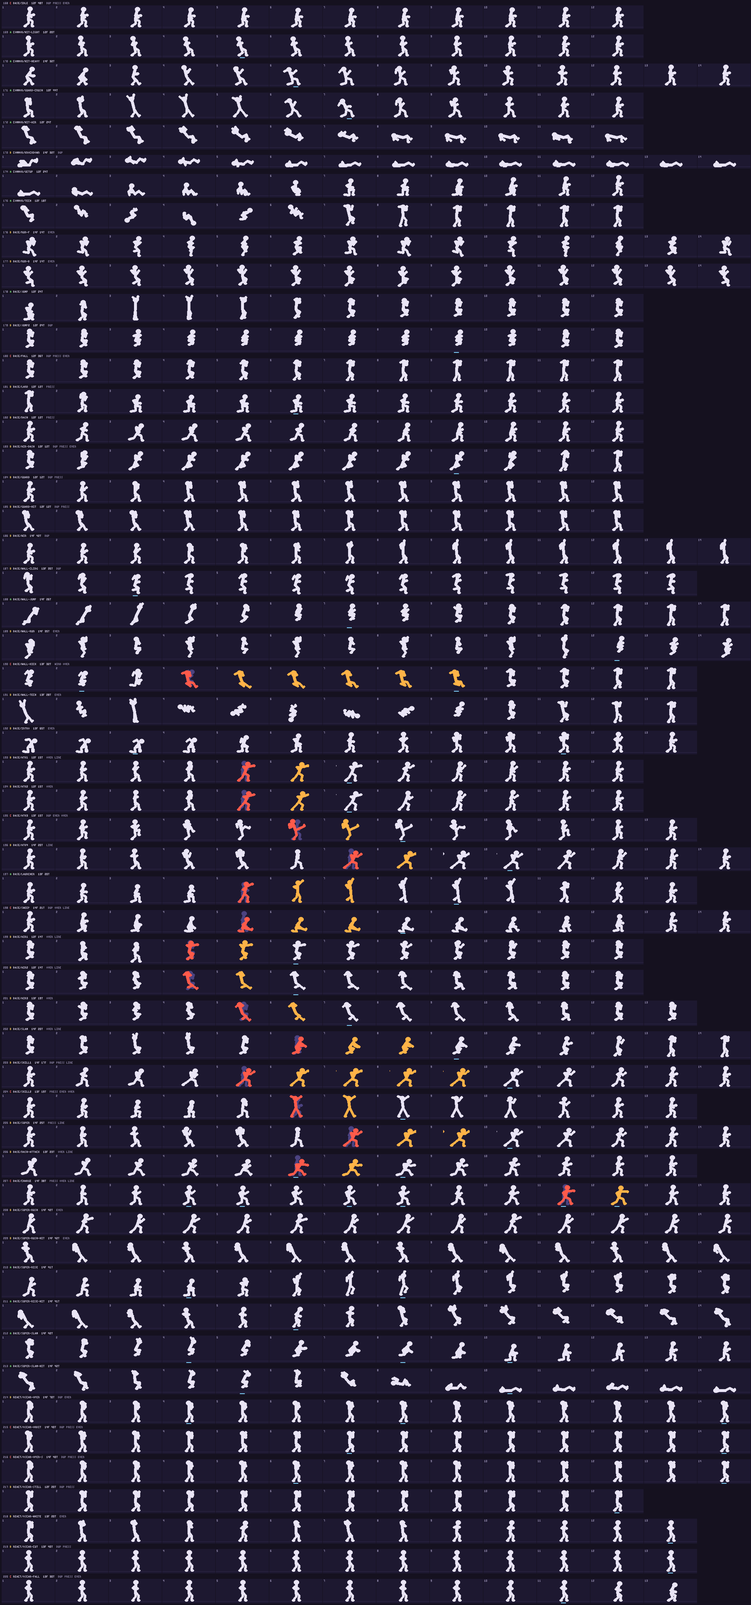
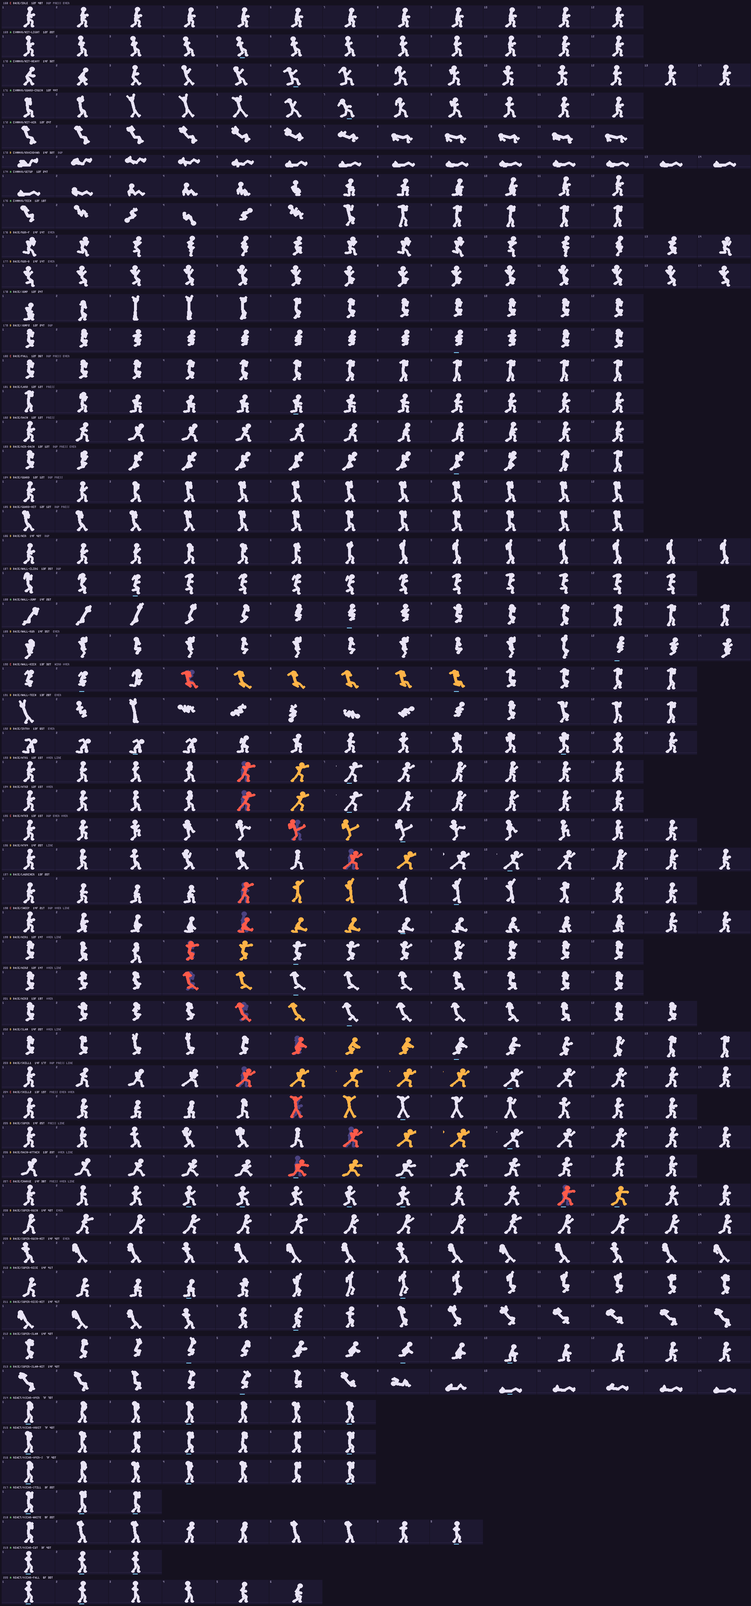
점검표·실루엣 띠 다시 뽑기 (오스카 2차 리워크 뒤)
오스카 40개: A 3 → 32, B 32 → 8 (남은 B는 모두 보호 목록), C 5 → 0. 월령수류 상대 반응 7개: 모두 A.

Claude-Session: https://claude.ai/code/session_01Q6VeBSuE7JSjci2iMumFxL

diff --git a/docs/motions/점검표.md b/docs/motions/점검표.md
@@ -3,8 +3,8 @@
 자동 생성: `npm run motioncheck` (`tools/motioncheck.mjs`). 손으로 고치지 않는다. 사람이 바꾼 등급은 도구의 `JUDGED` 표에 이유와 함께 적고, 등급 칸에 "자동 → 판단"으로 나온다.
 실루엣 띠: `previews/motions/silhouette-<캐릭터>.png` (아래 '실루엣 띠 읽는 법').
 
-동작 220개 — A 112 · B 87 · C 21. 보호 목록 26개는 등급만 적고 고치지 않는다(1장).
-신호별 개수: 복사로 길이 채움 48 · 감기 없음 7 · 지나치기 없음 34 · 직선 궤적 18 · 일정한 간격 45 · 몸통 고정 13 · 2차 동작 없음 94 · 실루엣 겹침 3 · 12~14에 눌림 45.
+동작 220개 — A 148 · B 59 · C 13. 보호 목록 26개는 등급만 적고 고치지 않는다(1장).
+신호별 개수: 복사로 길이 채움 20 · 감기 없음 5 · 지나치기 없음 34 · 직선 궤적 16 · 일정한 간격 26 · 몸통 고정 13 · 2차 동작 없음 91 · 실루엣 겹침 0 · 12~14에 눌림 20.
 
 ## 읽는 법
 
@@ -41,8 +41,8 @@
 | 라이덴 | 44 | 37 | 2 | 5 | 7 |
 | 백은우 | 43 | 27 | 15 | 1 | 3 |
 | 에드워드 | 40 | 32 | 8 | 0 | 7 |
-| 오스카 | 40 | 3 | 32 | 5 | 9 |
-| 공통 맞는 동작 · 기본 스틱맨 · 필살기 상대 반응 | 53 | 13 | 30 | 10 | 0 |
+| 오스카 | 40 | 32 | 8 | 0 | 9 |
+| 공통 맞는 동작 · 기본 스틱맨 · 필살기 상대 반응 | 53 | 20 | 26 | 7 | 0 |
 
 
 ## 라이덴 (44개 — A 37 · B 2 · C 5)
@@ -187,52 +187,52 @@
 | 126 | `edward/super_drained` 에드워드 필살기 반응 2 흡수당함<br>연출 | 14 / 60 | 해당 없음 — 공격 아님 | **2차 동작 없음**(머리카락 고정, 옷자락 고정, 무기 고정) | **B** · 보호 (1점) |
 | 127 | `edward/super_dropped` 에드워드 필살기 반응 3 쓰러짐<br>연출 | 14 / 32 | 해당 없음 — 공격 아님 | **복사로 길이 채움**(10=11 11=12)<br>**2차 동작 없음**(머리카락 지연 0, 옷자락 지연 0, 무기 고정) | **B** · 보호 (2점) |
 
-## 오스카 (40개 — A 3 · B 32 · C 5)
+## 오스카 (40개 — A 32 · B 8 · C 0)
 
 | # | 동작 | 프레임 수 / 총 틱 | 일곱 요소가 든 프레임 번호 | 문제 신호 | 등급 |
 | --- | --- | --- | --- | --- | --- |
-| 128 | `oscar/idle` 오스카 대기<br>반복 | 14 / 72 | 해당 없음 — 공격 아님 | **복사로 길이 채움**(6=7 12=13 13=14)<br>**일정한 간격**(뒷무릎 빠르기 최대/가운데 1.5배)<br>**2차 동작 없음**(머리카락 고정, 옷자락 고정) _장식 고정: 캐릭터 공통_ | **B** (2점) |
+| 128 | `oscar/idle` 오스카 대기<br>반복 | 8 / 72 | 해당 없음 — 공격 아님 | **2차 동작 없음**(머리카락 고정, 옷자락 고정) _장식 고정: 캐릭터 공통_ | **A** (0점) |
 | 129 | `oscar/walk_f` 오스카 앞 걷기<br>반복 | 14 / 42 | 해당 없음 — 공격 아님 | **일정한 간격**(앞발 빠르기 최대/가운데 1.8배)<br>**2차 동작 없음**(머리카락 고정, 옷자락 고정) _장식 고정: 캐릭터 공통_ | **B** · 보호 (1점) |
 | 130 | `oscar/walk_b` 오스카 뒤 걷기<br>반복 | 14 / 42 | 해당 없음 — 공격 아님 | **일정한 간격**(앞발 빠르기 최대/가운데 1.5배)<br>**2차 동작 없음**(머리카락 고정, 옷자락 고정) _장식 고정: 캐릭터 공통_ | **B** · 보호 (1점) |
 | 131 | `oscar/jump` 오스카 점프<br>이동·기본 | 12 / 24 | 해당 없음 — 공격 아님 | **2차 동작 없음**(머리카락 고정, 옷자락 고정) _장식 고정: 캐릭터 공통_ | **A** (0점) |
 | 132 | `oscar/jump2` 오스카 2단 점프<br>이동·기본 | 12 / 24 | 해당 없음 — 공격 아님 | **2차 동작 없음**(머리카락 고정, 옷자락 고정) _장식 고정: 캐릭터 공통_ | **A** · 보호 (0점) |
-| 133 | `oscar/fall` 오스카 낙하<br>이동·기본 | 12 / 36 | 해당 없음 — 공격 아님 | **복사로 길이 채움**(5=6 6=7 8=9)<br>**일정한 간격**(앞발 빠르기 최대/가운데 2배)<br>**2차 동작 없음**(머리카락 고정, 옷자락 고정) _장식 고정: 캐릭터 공통_ | **B** (2점) |
-| 134 | `oscar/land` 오스카 착지<br>이동·기본 | 12 / 12 | 해당 없음 — 공격 아님 | **복사로 길이 채움**(7=8)<br>**12~14에 눌림**(12프레임이 모두 1틱)<br>**일정한 간격**(머리 빠르기 최대/가운데 1.4배)<br>**2차 동작 없음**(머리카락 고정, 옷자락 고정) _장식 고정: 캐릭터 공통_ | **B** (3점) |
+| 133 | `oscar/fall` 오스카 낙하<br>이동·기본 | 6 / 36 | 해당 없음 — 공격 아님 | **2차 동작 없음**(머리카락 고정, 옷자락 고정) _장식 고정: 캐릭터 공통_ | **A** (0점) |
+| 134 | `oscar/land` 오스카 착지<br>이동·기본 | 5 / 12 | 해당 없음 — 공격 아님 | **2차 동작 없음**(머리카락 고정, 옷자락 고정) _장식 고정: 캐릭터 공통_ | **A** (0점) |
 | 135 | `oscar/dash` 오스카 대시 (월영)<br>이동·기본 | 12 / 12 | 해당 없음 — 공격 아님 | **복사로 길이 채움**(3=4)<br>**12~14에 눌림**(12프레임이 모두 1틱)<br>**2차 동작 없음**(머리카락 고정, 옷자락 고정) _장식 고정: 캐릭터 공통_ | **B** · 보호 (2점) |
-| 136 | `oscar/air_dash` 오스카 공중 대시<br>이동·기본 | 12 / 12 | 해당 없음 — 공격 아님 | **복사로 길이 채움**(3=4 4=5 6=7)<br>**12~14에 눌림**(12프레임이 모두 1틱)<br>**2차 동작 없음**(머리카락 고정, 옷자락 지연 0) _장식 고정: 캐릭터 공통_ | **B** (2점) |
-| 137 | `oscar/guard` 오스카 방어<br>이동·기본 | 12 / 12 | 해당 없음 — 공격 아님 | **복사로 길이 채움**(5=6 6=7 7=8 8=9 9=10 10=11)<br>**12~14에 눌림**(키 3개를 12프레임으로 늘림, 12프레임이 모두 1틱)<br>**일정한 간격**(뒷손 빠르기 최대/가운데 1.3배)<br>**2차 동작 없음**(머리카락 고정, 옷자락 고정) _장식 고정: 캐릭터 공통_ | **C** (4점) |
-| 138 | `oscar/guard_hit` 오스카 방어 막힘<br>이동·기본 | 12 / 12 | 해당 없음 — 공격 아님 | **복사로 길이 채움**(8=9 9=10 10=11)<br>**12~14에 눌림**(12프레임이 모두 1틱) | **B** (2점) |
-| 139 | `oscar/intro` 오스카 등장<br>연출 | 14 / 112 | 해당 없음 — 공격 아님 | **일정한 간격**(앞손 빠르기 최대/가운데 1.6배)<br>**2차 동작 없음**(머리카락 고정, 옷자락 고정) _장식 고정: 캐릭터 공통_ | **B** (1점) |
+| 136 | `oscar/air_dash` 오스카 공중 대시<br>이동·기본 | 6 / 12 | 해당 없음 — 공격 아님 | **2차 동작 없음**(머리카락 고정, 옷자락 지연 0) _장식 고정: 캐릭터 공통_ | **A** (0점) |
+| 137 | `oscar/guard` 오스카 방어<br>이동·기본 | 5 / 12 | 해당 없음 — 공격 아님 | **2차 동작 없음**(머리카락 고정, 옷자락 고정) _장식 고정: 캐릭터 공통_ | **A** (0점) |
+| 138 | `oscar/guard_hit` 오스카 방어 막힘<br>이동·기본 | 5 / 12 | 해당 없음 — 공격 아님 | 없음 | **A** (0점) |
+| 139 | `oscar/intro` 오스카 등장<br>연출 | 14 / 112 | 해당 없음 — 공격 아님 | **2차 동작 없음**(머리카락 고정, 옷자락 고정) _장식 고정: 캐릭터 공통_ | **A** (0점) |
 | 140 | `oscar/win` 오스카 승리<br>연출 | 14 / 74 | 해당 없음 — 공격 아님 | **2차 동작 없음**(머리카락 고정, 옷자락 지연 0) _장식 고정: 캐릭터 공통_ | **A** (0점) |
 | 141 | `oscar/wall_cling` 오스카 벽 붙기<br>이동·기본 | 13 / 35 | 해당 없음 — 공격 아님 | **복사로 길이 채움**(4=5 6=7)<br>**2차 동작 없음**(머리카락 고정, 옷자락 고정) _장식 고정: 캐릭터 공통_ | **B** · 보호 (1점) |
 | 142 | `oscar/wall_jump` 오스카 벽 점프<br>이동·기본 | 14 / 26 | 해당 없음 — 공격 아님 | **복사로 길이 채움**(12=13)<br>**2차 동작 없음**(머리카락 고정, 옷자락 고정) _장식 고정: 캐릭터 공통_ | **B** · 보호 (1점) |
 | 143 | `oscar/wall_run` 오스카 벽 달리기<br>이동·기본 | 14 / 35 | 해당 없음 — 공격 아님 | **일정한 간격**(뒷무릎 빠르기 최대/가운데 1.9배)<br>**2차 동작 없음**(머리카락 고정, 옷자락 고정) _장식 고정: 캐릭터 공통_ | **B** · 보호 (1점) |
 | 144 | `oscar/wall_kick` 오스카 벽 박차기 공격<br>일반 평타 · oscar.wallKick · 끝: 칼자루 손 | 13 / 32 | ①1→4(4→10px) ②4(+4), 높이 5 ③2<3 ④3→4 ⑤4(87° 꺾임, 겹침 30%) ⑥– ⑦10~13 (끝이 첫 자세와 9px) | **2차 동작 없음**(머리카락 고정, 옷자락 지연 0) _장식 고정: 캐릭터 공통_<br>**감기 없음**(1~3번에 뒤로 0px (버틴 감기 0px), 직전 정지도 없음)<br>**지나치기 없음**(5번 +1.2px) _의도: 오스카는 칼자루 손이 납도로 돌아오고 베기 선이 끝 (13-0)_ | **B** · 보호 (2점) |
 | 145 | `oscar/wall_tech` 오스카 벽 낙법<br>이동·기본 | 13 / 28 | 해당 없음 — 공격 아님 | **일정한 간격**(머리 빠르기 최대/가운데 2.1배)<br>**2차 동작 없음**(머리카락 지연 0, 옷자락 지연 0) _장식 고정: 캐릭터 공통_ | **B** · 보호 (1점) |
-| 146 | `oscar/atk1` 오스카 1타 (칼자루에 손)<br>빠른 타격 · oscar.atk1 · 끝: 칼자루 손 | 13 / 26 | ①– ②– ③– ④– ⑤4(115° 꺾임, 겹침 80%) ⑥– ⑦7~13 | **복사로 길이 채움**(7=8)<br>**12~14에 눌림**(참고 6~10보다 많음)<br>**2차 동작 없음**(머리카락 고정, 옷자락 고정) _장식 고정: 캐릭터 공통_<br>**지나치기 없음**(5번 -4.1px) _의도: 오스카는 칼자루 손이 납도로 돌아오고 베기 선이 끝 (13-0)_<br>**몸통 고정**(엉덩이·어깨 최대 1px) _의도: 오스카는 몸 대신 손과 칼자루 (3장)_ | **B** (2점) |
-| 147 | `oscar/atk2` 오스카 2타 (반 걸음 미끄러짐)<br>빠른 타격 · oscar.atk2 · 끝: 칼자루 손 | 13 / 26 | ①– ②– ③– ④– ⑤4(112° 꺾임, 겹침 70%) ⑥– ⑦7~13 | **복사로 길이 채움**(7=8)<br>**12~14에 눌림**(참고 6~10보다 많음)<br>**2차 동작 없음**(머리카락 고정, 옷자락 고정) _장식 고정: 캐릭터 공통_<br>**지나치기 없음**(5번 -5.4px) _의도: 오스카는 칼자루 손이 납도로 돌아오고 베기 선이 끝 (13-0)_<br>**몸통 고정**(엉덩이·어깨 최대 2.2px) _의도: 오스카는 몸 대신 손과 칼자루 (3장)_ | **B** (2점) |
-| 148 | `oscar/atk3` 오스카 3타 (몸을 살짝 낮춤)<br>빠른 타격 · oscar.atk3 · 끝: 칼자루 손 | 13 / 26 | ①– ②– ③– ④– ⑤4(108° 꺾임, 겹침 67%) ⑥– ⑦7~13 | **복사로 길이 채움**(7=8)<br>**12~14에 눌림**(참고 6~10보다 많음)<br>**2차 동작 없음**(머리카락 고정, 옷자락 고정) _장식 고정: 캐릭터 공통_<br>**지나치기 없음**(5번 -5.1px) _의도: 오스카는 칼자루 손이 납도로 돌아오고 베기 선이 끝 (13-0)_<br>**몸통 고정**(엉덩이·어깨 최대 3.2px) _의도: 오스카는 몸 대신 손과 칼자루 (3장)_ | **B** (2점) |
-| 149 | `oscar/atk4` 오스카 4타 (반쯤 뽑았다 납도)<br>일반 평타 · oscar.atk4 · 끝: 칼자루 손 | 14 / 30 | ①– ②– ③– ④– ⑤7(132° 꺾임, 겹침 75%) ⑥– ⑦10~14 | **복사로 길이 채움**(3=4)<br>**2차 동작 없음**(머리카락 고정, 옷자락 지연 0) _장식 고정: 캐릭터 공통_<br>**지나치기 없음**(8번 +0px) _의도: 오스카는 칼자루 손이 납도로 돌아오고 베기 선이 끝 (13-0)_<br>**직선 궤적**(4~8번 휨 0.5px / 8.2px)<br>**몸통 고정**(엉덩이·어깨 최대 2.2px) _의도: 오스카는 몸 대신 손과 칼자루 (3장)_ | **B** (2점) |
-| 150 | `oscar/launcher` 오스카 띄우기 (위를 올려봄)<br>빠른 타격 · oscar.launcher · 끝: 칼자루 손 | 13 / 27 | ①– ②– ③– ④– ⑤4(111° 꺾임, 겹침 69%) ⑥– ⑦7~13 | **복사로 길이 채움**(7=8)<br>**12~14에 눌림**(참고 6~10보다 많음)<br>**일정한 간격**(끝 빠르기 최대/가운데 2.1배)<br>**2차 동작 없음**(머리카락 고정, 옷자락 고정) _장식 고정: 캐릭터 공통_<br>**지나치기 없음**(5번 -3.4px) _의도: 오스카는 칼자루 손이 납도로 돌아오고 베기 선이 끝 (13-0)_<br>**몸통 고정**(엉덩이·어깨 최대 2px) _의도: 오스카는 몸 대신 손과 칼자루 (3장)_ | **B** (3점) |
-| 151 | `oscar/sweep` 오스카 쓸기 (낮게)<br>빠른 타격 · oscar.sweep · 끝: 칼자루 손 | 13 / 27 | ①1→4(3→8px) ②– ③– ④– ⑤4(108° 꺾임, 겹침 41%) ⑥– ⑦7~13 | **12~14에 눌림**(참고 6~10보다 많음)<br>**2차 동작 없음**(머리카락 고정, 옷자락 고정) _장식 고정: 캐릭터 공통_<br>**지나치기 없음**(5번 -4.4px) _의도: 오스카는 칼자루 손이 납도로 돌아오고 베기 선이 끝 (13-0)_ | **B** (1점) |
-| 152 | `oscar/dash_attack` 오스카 대시 공격 (월영 베기)<br>빠른 타격 · oscar.dashAttack · 끝: 칼자루 손 | 13 / 26 | ①– ②– ③– ④– ⑤4(100° 꺾임, 겹침 42%) ⑥– ⑦– | **복사로 길이 채움**(2=3 7=8)<br>**12~14에 눌림**(참고 6~10보다 많음)<br>**2차 동작 없음**(머리카락 고정, 옷자락 고정) _장식 고정: 캐릭터 공통_<br>**지나치기 없음**(5번 -5.6px) _의도: 오스카는 칼자루 손이 납도로 돌아오고 베기 선이 끝 (13-0)_ | **B** (2점) |
-| 153 | `oscar/air1` 오스카 공중 1타<br>빠른 타격 · oscar.air1 · 끝: 칼자루 손 | 12 / 20 | ①2→3(3→7px) ②– ③– ④– ⑤3(135° 꺾임, 겹침 69%) ⑥– ⑦6~12 | **12~14에 눌림**(참고 6~10보다 많음)<br>**일정한 간격**(끝 빠르기 최대/가운데 2배)<br>**2차 동작 없음**(머리카락 고정, 옷자락 고정) _장식 고정: 캐릭터 공통_<br>**감기 없음**(1~2번에 뒤로 0px (버틴 감기 0px), 직전 정지도 없음)<br>**지나치기 없음**(4번 -3.4px) _의도: 오스카는 칼자루 손이 납도로 돌아오고 베기 선이 끝 (13-0)_<br>**몸통 고정**(엉덩이·어깨 최대 2.2px) _의도: 오스카는 몸 대신 손과 칼자루 (3장)_ | **C** (4점) |
-| 154 | `oscar/air2` 오스카 공중 2타<br>빠른 타격 · oscar.air2 · 끝: 칼자루 손 | 12 / 20 | ①– ②– ③– ④– ⑤3(104° 꺾임, 겹침 83%) ⑥– ⑦6~12 | **12~14에 눌림**(참고 6~10보다 많음)<br>**2차 동작 없음**(머리카락 고정, 옷자락 고정) _장식 고정: 캐릭터 공통_<br>**감기 없음**(1~2번에 뒤로 0px (버틴 감기 0px), 직전 정지도 없음)<br>**지나치기 없음**(4번 -5.8px) _의도: 오스카는 칼자루 손이 납도로 돌아오고 베기 선이 끝 (13-0)_<br>**몸통 고정**(엉덩이·어깨 최대 1px) _의도: 오스카는 몸 대신 손과 칼자루 (3장)_<br>**실루엣 겹침**(첫 프레임와 83%) _오스카: 몸은 거의 그대로이고 손·칼자루로 읽혀야 함 (1점)_ | **C** (4점) |
-| 155 | `oscar/air3` 오스카 공중 3타 (X자)<br>빠른 타격 · oscar.air3 · 끝: 칼자루 손 | 12 / 20 | ①1→3(3→8px) ②– ③– ④– ⑤3(121° 꺾임, 겹침 61%) ⑥– ⑦6~12 | **12~14에 눌림**(참고 6~10보다 많음)<br>**2차 동작 없음**(머리카락 고정, 옷자락 고정) _장식 고정: 캐릭터 공통_<br>**지나치기 없음**(4번 -6px) _의도: 오스카는 칼자루 손이 납도로 돌아오고 베기 선이 끝 (13-0)_<br>**몸통 고정**(엉덩이·어깨 최대 3.2px) _의도: 오스카는 몸 대신 손과 칼자루 (3장)_ | **B** (1점) |
-| 156 | `oscar/slam` 오스카 내려찍기 (내려다봄)<br>빠른 타격 · oscar.slam · 끝: 칼자루 손 | 13 / 26 | ①– ②– ③– ④4→5 ⑤4(129° 꺾임, 겹침 47%) ⑥– ⑦– | **복사로 길이 채움**(7=8)<br>**12~14에 눌림**(참고 6~10보다 많음)<br>**2차 동작 없음**(머리카락 고정, 옷자락 고정) _장식 고정: 캐릭터 공통_<br>**지나치기 없음**(5번 -5px) _의도: 오스카는 칼자루 손이 납도로 돌아오고 베기 선이 끝 (13-0)_ | **B** (2점) |
-| 157 | `oscar/skill1` 오스카 스킬 1 (월하참뢰검)<br>차지·스킬 · oscar.skill1 · 끝: 칼자루 손 | 14 / 34 | ①– ②– ③– ④– ⑤8(112° 꺾임, 겹침 82%) ⑥– ⑦– | **복사로 길이 채움**(3=4 4=5 5=6)<br>**12~14에 눌림**(참고 16~30보다 적음)<br>**2차 동작 없음**(머리카락 고정, 옷자락 고정) _장식 고정: 캐릭터 공통_<br>**지나치기 없음**(9번 -4.5px) _의도: 오스카는 칼자루 손이 납도로 돌아오고 베기 선이 끝 (13-0)_<br>**몸통 고정**(엉덩이·어깨 최대 1.4px) _의도: 오스카는 몸 대신 손과 칼자루 (3장)_<br>**실루엣 겹침**(대기와 82%) _오스카: 몸은 거의 그대로이고 손·칼자루로 읽혀야 함 (1점)_ | **B** (3점) |
-| 158 | `oscar/skill2` 오스카 스킬 2 (월하윤회궤)<br>차지·스킬 · oscar.skill2 · 끝: 칼자루 손 | 14 / 24 | ①– ②– ③– ④– ⑤7(135° 꺾임, 겹침 48%) ⑥– ⑦8~14 | **복사로 길이 채움**(12=13)<br>**12~14에 눌림**(참고 16~30보다 적음)<br>**2차 동작 없음**(머리카락 고정, 옷자락 고정) _장식 고정: 캐릭터 공통_<br>**지나치기 없음**(8번 +0px) _의도: 오스카는 칼자루 손이 납도로 돌아오고 베기 선이 끝 (13-0)_<br>**직선 궤적**(6~8번 휨 0px / 11px) | **B** (3점) |
-| 159 | `oscar/charge` 오스카 차지 (만검지화)<br>차지·스킬 · oscar.charge · 끝: 칼자루 손 | 14 / 39 | ①– ②– ③– ④– ⑤11(135° 꺾임, 겹침 80%) ⑥– ⑦– | **12~14에 눌림**(참고 16~30보다 적음)<br>**2차 동작 없음**(머리카락 고정, 옷자락 고정) _장식 고정: 캐릭터 공통_<br>**지나치기 없음**(12번 +0px) _의도: 오스카는 칼자루 손이 납도로 돌아오고 베기 선이 끝 (13-0)_<br>**몸통 고정**(엉덩이·어깨 최대 2.2px) _의도: 오스카는 몸 대신 손과 칼자루 (3장)_ | **B** (1점) |
-| 160 | `oscar/super` 오스카 필살기 (월령수류) 발동<br>차지·스킬 · oscar.super · 끝: 칼자루 손 | 14 / 48 | ①– ②– ③– ④– ⑤8(125° 꺾임, 겹침 88%) ⑥– ⑦10~14 | **복사로 길이 채움**(4=5)<br>**12~14에 눌림**(참고 16~30보다 적음)<br>**일정한 간격**(끝 빠르기 최대/가운데 1.6배)<br>**2차 동작 없음**(머리카락 고정, 옷자락 고정) _장식 고정: 캐릭터 공통_<br>**지나치기 없음**(9번 +0px) _의도: 오스카는 칼자루 손이 납도로 돌아오고 베기 선이 끝 (13-0)_<br>**몸통 고정**(엉덩이·어깨 최대 1px) _의도: 오스카는 몸 대신 손과 칼자루 (3장)_<br>**실루엣 겹침**(대기와 88%) _오스카: 몸은 거의 그대로이고 손·칼자루로 읽혀야 함 (1점)_ | **B** (4점) |
-| 161 | `oscar/super_open` 오스카 필살기 장면 1 (전개)<br>연출 | 14 / 70 | 해당 없음 — 공격 아님 | **복사로 길이 채움**(4=5 7=8 10=11)<br>**일정한 간격**(머리 빠르기 최대/가운데 1.6배)<br>**2차 동작 없음**(머리카락 고정, 옷자락 고정) _장식 고정: 캐릭터 공통_ | **B** (2점) |
-| 162 | `oscar/super_orbit` 오스카 필살기 장면 2 (검영)<br>연출 | 14 / 40 | 해당 없음 — 공격 아님 | **복사로 길이 채움**(3=4 4=5 5=6 6=7 7=8 8=9 9=10 10=11 11=12 12=13)<br>**12~14에 눌림**(키 3개를 14프레임으로 늘림)<br>**일정한 간격**(머리 빠르기 최대/가운데 1.4배)<br>**2차 동작 없음**(머리카락 고정, 옷자락 고정) _장식 고정: 캐릭터 공통_ | **C** (4점) |
-| 163 | `oscar/super_open_s` 오스카 필살기 짧은 판 장면 1 (전개·검영)<br>연출 | 14 / 40 | 해당 없음 — 공격 아님 | **복사로 길이 채움**(5=6 6=7 9=10 10=11 11=12 12=13)<br>**일정한 간격**(머리 빠르기 최대/가운데 1.6배)<br>**2차 동작 없음**(머리카락 고정, 옷자락 고정) _장식 고정: 캐릭터 공통_ | **B** (2점) |
-| 164 | `oscar/super_still` 오스카 필살기 장면 3 (정적)<br>연출 | 12 / 20 | 해당 없음 — 공격 아님 | **복사로 길이 채움**(5=6 7=8 8=9)<br>**일정한 간격**(앞손 빠르기 최대/가운데 1.1배)<br>**2차 동작 없음**(머리카락 고정, 옷자락 고정) _장식 고정: 캐릭터 공통_ | **B** (2점) |
-| 165 | `oscar/super_white` 오스카 필살기 장면 4 (백색)<br>연출 | 13 / 20 | 해당 없음 — 공격 아님 | **복사로 길이 채움**(3=4 8=9 10=11 11=12)<br>**2차 동작 없음**(머리카락 고정, 옷자락 고정, 무기 지연 0) _장식 고정: 캐릭터 공통_ | **B** (1점) |
-| 166 | `oscar/super_cut` 오스카 필살기 장면 5 (어긋남)<br>연출 | 13 / 40 | 해당 없음 — 공격 아님 | **복사로 길이 채움**(2=3 3=4 4=5 8=9 10=11 11=12)<br>**12~14에 눌림**(키 3개를 13프레임으로 늘림)<br>**일정한 간격**(앞어깨 빠르기 최대/가운데 1.4배)<br>**2차 동작 없음**(머리카락 고정, 옷자락 고정, 무기 지연 0) _장식 고정: 캐릭터 공통_ | **C** (4점) |
-| 167 | `oscar/super_sheathe` 오스카 필살기 장면 6 (납도)<br>연출 | 13 / 30 | 해당 없음 — 공격 아님 | **일정한 간격**(앞팔꿈치 빠르기 최대/가운데 1.1배)<br>**2차 동작 없음**(머리카락 고정, 옷자락 고정) _장식 고정: 캐릭터 공통_ | **B** (1점) |
+| 146 | `oscar/atk1` 오스카 1타 (칼자루에 손)<br>빠른 타격 · oscar.atk1 · 끝: 칼자루 손 | 7 / 26 | ①– ②– ③– ④– ⑤3(113° 꺾임, 겹침 76%) ⑥– ⑦6~7 | **2차 동작 없음**(머리카락 고정, 옷자락 고정) _장식 고정: 캐릭터 공통_<br>**지나치기 없음**(4번 -5px) _의도: 오스카는 칼자루 손이 납도로 돌아오고 베기 선이 끝 (13-0)_<br>**몸통 고정**(엉덩이·어깨 최대 1.4px) _의도: 오스카는 몸 대신 손과 칼자루 (3장)_ | **A** (0점) |
+| 147 | `oscar/atk2` 오스카 2타 (반 걸음 미끄러짐)<br>빠른 타격 · oscar.atk2 · 끝: 칼자루 손 | 7 / 26 | ①– ②– ③– ④– ⑤3(112° 꺾임, 겹침 69%) ⑥– ⑦6~7 | **2차 동작 없음**(머리카락 고정, 옷자락 고정) _장식 고정: 캐릭터 공통_<br>**지나치기 없음**(4번 -5.4px) _의도: 오스카는 칼자루 손이 납도로 돌아오고 베기 선이 끝 (13-0)_<br>**몸통 고정**(엉덩이·어깨 최대 2.2px) _의도: 오스카는 몸 대신 손과 칼자루 (3장)_ | **A** (0점) |
+| 148 | `oscar/atk3` 오스카 3타 (몸을 살짝 낮춤)<br>빠른 타격 · oscar.atk3 · 끝: 칼자루 손 | 7 / 26 | ①– ②– ③– ④– ⑤3(108° 꺾임, 겹침 65%) ⑥– ⑦6~7 | **2차 동작 없음**(머리카락 고정, 옷자락 고정) _장식 고정: 캐릭터 공통_<br>**지나치기 없음**(4번 -5.3px) _의도: 오스카는 칼자루 손이 납도로 돌아오고 베기 선이 끝 (13-0)_<br>**몸통 고정**(엉덩이·어깨 최대 3.2px) _의도: 오스카는 몸 대신 손과 칼자루 (3장)_ | **A** (0점) |
+| 149 | `oscar/atk4` 오스카 4타 (반쯤 뽑았다 납도)<br>일반 평타 · oscar.atk4 · 끝: 칼자루 손 | 10 / 30 | ①– ②– ③– ④– ⑤7(132° 꺾임, 겹침 74%) ⑥– ⑦9~10 | **2차 동작 없음**(머리카락 고정, 옷자락 고정) _장식 고정: 캐릭터 공통_<br>**지나치기 없음**(8번 +0px) _의도: 오스카는 칼자루 손이 납도로 돌아오고 베기 선이 끝 (13-0)_<br>**몸통 고정**(엉덩이·어깨 최대 3.6px) _의도: 오스카는 몸 대신 손과 칼자루 (3장)_ | **A** (0점) |
+| 150 | `oscar/launcher` 오스카 띄우기 (위를 올려봄)<br>빠른 타격 · oscar.launcher · 끝: 칼자루 손 | 7 / 27 | ①– ②– ③– ④– ⑤3(114° 꺾임, 겹침 70%) ⑥– ⑦6~7 | **지나치기 없음**(4번 -3.5px) _의도: 오스카는 칼자루 손이 납도로 돌아오고 베기 선이 끝 (13-0)_<br>**몸통 고정**(엉덩이·어깨 최대 2.2px) _의도: 오스카는 몸 대신 손과 칼자루 (3장)_ | **A** (0점) |
+| 151 | `oscar/sweep` 오스카 쓸기 (낮게)<br>빠른 타격 · oscar.sweep · 끝: 칼자루 손 | 8 / 27 | ①– ②– ③– ④– ⑤4(108° 꺾임, 겹침 40%) ⑥– ⑦7~8 | **2차 동작 없음**(머리카락 고정, 옷자락 고정) _장식 고정: 캐릭터 공통_<br>**지나치기 없음**(5번 -5px) _의도: 오스카는 칼자루 손이 납도로 돌아오고 베기 선이 끝 (13-0)_ | **A** (0점) |
+| 152 | `oscar/dash_attack` 오스카 대시 공격 (월영 베기)<br>빠른 타격 · oscar.dashAttack · 끝: 칼자루 손 | 8 / 26 | ①– ②– ③– ④– ⑤4(100° 꺾임, 겹침 42%) ⑥– ⑦7~8 | **2차 동작 없음**(머리카락 고정, 옷자락 고정) _장식 고정: 캐릭터 공통_<br>**지나치기 없음**(5번 -6.8px) _의도: 오스카는 칼자루 손이 납도로 돌아오고 베기 선이 끝 (13-0)_ | **A** (0점) |
+| 153 | `oscar/air1` 오스카 공중 1타<br>빠른 타격 · oscar.air1 · 끝: 칼자루 손 | 7 / 20 | ①2→3(1→7px) ②– ③– ④– ⑤3(121° 꺾임, 겹침 57%) ⑥– ⑦6~7 | **2차 동작 없음**(머리카락 고정, 옷자락 고정) _장식 고정: 캐릭터 공통_<br>**지나치기 없음**(4번 -5.3px) _의도: 오스카는 칼자루 손이 납도로 돌아오고 베기 선이 끝 (13-0)_<br>**몸통 고정**(엉덩이·어깨 최대 3.2px) _의도: 오스카는 몸 대신 손과 칼자루 (3장)_ | **A** (0점) |
+| 154 | `oscar/air2` 오스카 공중 2타<br>빠른 타격 · oscar.air2 · 끝: 칼자루 손 | 7 / 20 | ①– ②– ③– ④– ⑤3(94° 꺾임, 겹침 57%) ⑥– ⑦6~7 | **지나치기 없음**(4번 -5.7px) _의도: 오스카는 칼자루 손이 납도로 돌아오고 베기 선이 끝 (13-0)_<br>**몸통 고정**(엉덩이·어깨 최대 2px) _의도: 오스카는 몸 대신 손과 칼자루 (3장)_ | **A** (0점) |
+| 155 | `oscar/air3` 오스카 공중 3타 (X자)<br>빠른 타격 · oscar.air3 · 끝: 칼자루 손 | 7 / 20 | ①2→3(0→8px) ②– ③– ④– ⑤3(121° 꺾임, 겹침 54%) ⑥– ⑦6~7 | **2차 동작 없음**(머리카락 고정, 옷자락 고정) _장식 고정: 캐릭터 공통_<br>**지나치기 없음**(4번 -6.3px) _의도: 오스카는 칼자루 손이 납도로 돌아오고 베기 선이 끝 (13-0)_<br>**몸통 고정**(엉덩이·어깨 최대 3.2px) _의도: 오스카는 몸 대신 손과 칼자루 (3장)_ | **A** (0점) |
+| 156 | `oscar/slam` 오스카 내려찍기 (내려다봄)<br>빠른 타격 · oscar.slam · 끝: 칼자루 손 | 7 / 26 | ①2→3(4→8px) ②– ③– ④– ⑤3(129° 꺾임, 겹침 46%) ⑥– ⑦6~7 | **2차 동작 없음**(머리카락 고정, 옷자락 고정) _장식 고정: 캐릭터 공통_<br>**지나치기 없음**(4번 -5.1px) _의도: 오스카는 칼자루 손이 납도로 돌아오고 베기 선이 끝 (13-0)_ | **A** (0점) |
+| 157 | `oscar/skill1` 오스카 스킬 1 (월하참뢰검)<br>차지·스킬 · oscar.skill1 · 끝: 칼자루 손 | 16 / 34 | ①– ②– ③– ④– ⑤9(108° 꺾임, 겹침 75%) ⑥– ⑦12~16 | **2차 동작 없음**(머리카락 고정, 옷자락 고정) _장식 고정: 캐릭터 공통_<br>**지나치기 없음**(10번 -4.5px) _의도: 오스카는 칼자루 손이 납도로 돌아오고 베기 선이 끝 (13-0)_<br>**몸통 고정**(엉덩이·어깨 최대 1.4px) _의도: 오스카는 몸 대신 손과 칼자루 (3장)_ | **A** (0점) |
+| 158 | `oscar/skill2` 오스카 스킬 2 (월하윤회궤)<br>차지·스킬 · oscar.skill2 · 끝: 칼자루 손 | 17 / 24 | ①– ②– ③– ④– ⑤9(152° 꺾임, 겹침 46%) ⑥– ⑦10~17 | **2차 동작 없음**(머리카락 고정, 옷자락 고정) _장식 고정: 캐릭터 공통_<br>**지나치기 없음**(10번 -2px) _의도: 오스카는 칼자루 손이 납도로 돌아오고 베기 선이 끝 (13-0)_ | **A** (0점) |
+| 159 | `oscar/charge` 오스카 차지 (만검지화)<br>차지·스킬 · oscar.charge · 끝: 칼자루 손 | 16 / 39 | ①– ②– ③– ④– ⑤13(135° 꺾임, 겹침 76%) ⑥– ⑦– | **2차 동작 없음**(머리카락 고정, 옷자락 지연 0) _장식 고정: 캐릭터 공통_<br>**지나치기 없음**(14번 -0.3px) _의도: 오스카는 칼자루 손이 납도로 돌아오고 베기 선이 끝 (13-0)_<br>**몸통 고정**(엉덩이·어깨 최대 2.2px) _의도: 오스카는 몸 대신 손과 칼자루 (3장)_ | **A** (0점) |
+| 160 | `oscar/super` 오스카 필살기 (월령수류) 발동<br>차지·스킬 · oscar.super · 끝: 칼자루 손 | 16 / 48 | ①– ②– ③– ④– ⑤11(125° 꺾임, 겹침 67%) ⑥– ⑦13~16 | **지나치기 없음**(12번 +0.7px) _의도: 오스카는 칼자루 손이 납도로 돌아오고 베기 선이 끝 (13-0)_<br>**몸통 고정**(엉덩이·어깨 최대 2px) _의도: 오스카는 몸 대신 손과 칼자루 (3장)_ | **A** (0점) |
+| 161 | `oscar/super_open` 오스카 필살기 장면 1 (전개)<br>연출 | 7 / 70 | 해당 없음 — 공격 아님 | **2차 동작 없음**(머리카락 고정, 옷자락 고정) _장식 고정: 캐릭터 공통_ | **A** (0점) |
+| 162 | `oscar/super_orbit` 오스카 필살기 장면 2 (검영)<br>연출 | 5 / 40 | 해당 없음 — 공격 아님 | **2차 동작 없음**(머리카락 고정, 옷자락 고정) _장식 고정: 캐릭터 공통_ | **A** (0점) |
+| 163 | `oscar/super_open_s` 오스카 필살기 짧은 판 장면 1 (전개·검영)<br>연출 | 7 / 40 | 해당 없음 — 공격 아님 | **2차 동작 없음**(머리카락 고정, 옷자락 고정) _장식 고정: 캐릭터 공통_ | **A** (0점) |
+| 164 | `oscar/super_still` 오스카 필살기 장면 3 (정적)<br>연출 | 5 / 20 | 해당 없음 — 공격 아님 | **2차 동작 없음**(머리카락 고정, 옷자락 고정) _장식 고정: 캐릭터 공통_ | **A** (0점) |
+| 165 | `oscar/super_white` 오스카 필살기 장면 4 (백색)<br>연출 | 4 / 20 | 해당 없음 — 공격 아님 | **2차 동작 없음**(머리카락 고정, 옷자락 고정, 무기 지연 0) _장식 고정: 캐릭터 공통_ | **A** (0점) |
+| 166 | `oscar/super_cut` 오스카 필살기 장면 5 (어긋남)<br>연출 | 5 / 40 | 해당 없음 — 공격 아님 | **2차 동작 없음**(머리카락 고정, 옷자락 고정, 무기 고정) _장식 고정: 캐릭터 공통_ | **A** (0점) |
+| 167 | `oscar/super_sheathe` 오스카 필살기 장면 6 (납도)<br>연출 | 7 / 30 | 해당 없음 — 공격 아님 | **2차 동작 없음**(머리카락 고정, 옷자락 고정) _장식 고정: 캐릭터 공통_ | **A** (0점) |
 
-## 공통 맞는 동작 · 기본 스틱맨 · 필살기 상대 반응 (53개 — A 13 · B 30 · C 10)
+## 공통 맞는 동작 · 기본 스틱맨 · 필살기 상대 반응 (53개 — A 20 · B 26 · C 7)
 
 | # | 동작 | 프레임 수 / 총 틱 | 일곱 요소가 든 프레임 번호 | 문제 신호 | 등급 |
 | --- | --- | --- | --- | --- | --- |
@@ -282,13 +282,13 @@
 | 211 | `base/super_rise_hit` 임시 필살 2장면 상대: 올려 맞아 솟구침<br>연출 | 14 / 41 | 해당 없음 — 공격 아님 | 없음 | **A** (0점) |
 | 212 | `base/super_slam` 임시 필살 3장면: 내려찍기<br>연출 | 14 / 42 | 해당 없음 — 공격 아님 | 없음 | **A** (0점) |
 | 213 | `base/super_slam_hit` 임시 필살 3장면 상대: 바닥에 꽂힘<br>연출 | 14 / 42 | 해당 없음 — 공격 아님 | 없음 | **A** (0점) |
-| 214 | `react/oscar_open` 월령수류 반응 1 (굳음)<br>연출 | 14 / 70 | 해당 없음 — 공격 아님 | **복사로 길이 채움**(2=3 6=7 9=10 10=11 11=12 12=13)<br>**일정한 간격**(앞팔꿈치 빠르기 최대/가운데 1.4배) | **B** (2점) |
-| 215 | `react/oscar_orbit` 월령수류 반응 2 (움츠림)<br>연출 | 14 / 40 | 해당 없음 — 공격 아님 | **복사로 길이 채움**(5=6 8=9 9=10 10=11 11=12 12=13)<br>**12~14에 눌림**(키 3개를 14프레임으로 늘림)<br>**일정한 간격**(뒷손 빠르기 최대/가운데 1.4배) | **C** (4점) |
-| 216 | `react/oscar_open_s` 월령수류 짧은 판 반응 1<br>연출 | 14 / 40 | 해당 없음 — 공격 아님 | **복사로 길이 채움**(3=4 4=5 8=9 11=12 12=13)<br>**12~14에 눌림**(키 3개를 14프레임으로 늘림)<br>**일정한 간격**(앞손 빠르기 최대/가운데 1.5배) | **C** (4점) |
-| 217 | `react/oscar_still` 월령수류 반응 3 (정적)<br>연출 | 12 / 20 | 해당 없음 — 공격 아님 | **복사로 길이 채움**(2=3 3=4 4=5 5=6 6=7 7=8 8=9 9=10 10=11)<br>**12~14에 눌림**(키 2개를 12프레임으로 늘림) | **B** (3점) |
-| 218 | `react/oscar_white` 월령수류 반응 4 (베임)<br>연출 | 13 / 20 | 해당 없음 — 공격 아님 | **일정한 간격**(뒷팔꿈치 빠르기 최대/가운데 2.1배) | **B** (1점) |
-| 219 | `react/oscar_cut` 월령수류 반응 5 (베여 있음)<br>연출 | 13 / 40 | 해당 없음 — 공격 아님 | **복사로 길이 채움**(2=3 3=4 4=5 5=6 6=7 7=8 8=9 9=10 10=11 11=12)<br>**12~14에 눌림**(키 2개를 13프레임으로 늘림) | **B** (3점) |
-| 220 | `react/oscar_fall` 월령수류 반응 6 (무너짐)<br>연출 | 13 / 30 | 해당 없음 — 공격 아님 | **복사로 길이 채움**(2=3 3=4 4=5 5=6 6=7 7=8 8=9 9=10)<br>**12~14에 눌림**(키 3개를 13프레임으로 늘림)<br>**일정한 간격**(머리 빠르기 최대/가운데 1배) | **C** (4점) |
+| 214 | `react/oscar_open` 월령수류 반응 1 (굳음)<br>연출 | 7 / 70 | 해당 없음 — 공격 아님 | 없음 | **A** (0점) |
+| 215 | `react/oscar_orbit` 월령수류 반응 2 (움츠림)<br>연출 | 7 / 40 | 해당 없음 — 공격 아님 | 없음 | **A** (0점) |
+| 216 | `react/oscar_open_s` 월령수류 짧은 판 반응 1<br>연출 | 7 / 40 | 해당 없음 — 공격 아님 | 없음 | **A** (0점) |
+| 217 | `react/oscar_still` 월령수류 반응 3 (정적)<br>연출 | 3 / 20 | 해당 없음 — 공격 아님 | 없음 | **A** (0점) |
+| 218 | `react/oscar_white` 월령수류 반응 4 (베임)<br>연출 | 9 / 20 | 해당 없음 — 공격 아님 | 없음 | **A** (0점) |
+| 219 | `react/oscar_cut` 월령수류 반응 5 (베여 있음)<br>연출 | 3 / 40 | 해당 없음 — 공격 아님 | 없음 | **A** (0점) |
+| 220 | `react/oscar_fall` 월령수류 반응 6 (무너짐)<br>연출 | 6 / 30 | 해당 없음 — 공격 아님 | 없음 | **A** (0점) |
 
 ## 실루엣 띠 읽는 법
 
